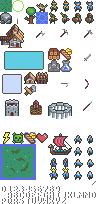
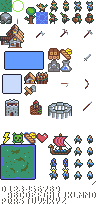
gfx

Changed region(s): [[0.0, 0.2353, 0.4688, 0.4706], [0.0, 0.7059, 0.375, 0.8824]]

diff --git a/src/js/main.js b/src/js/main.js
@@ -308,7 +308,9 @@ function loadMapData(callback) {
 				for (let x = 0; x < 36; x++) {
 					const index = 4 * (y * 36 + x);
 					let val = 0;
-					if (data[index] == 91 && data[index + 1] == 110 && data[index + 2] == 225) {
+					if (data[index + 3] == 0
+						|| (data[index] == 91 && data[index + 1] == 110 && data[index + 2] == 225)
+						|| (data[index] == 34 && data[index + 1] == 32 && data[index + 2] == 52)) {
 						val = 'w';
 					}
 					else if (data[index] == 75 && data[index + 1] == 105 && data[index + 2] == 47) {

diff --git a/src/js/MapManager.js b/src/js/MapManager.js
@@ -68,7 +68,7 @@ class MapManager {
 			new Unit_Worker(vec2(14, 12))
 		);
 
-		GLOBAL.boat = new EngineObject(vec2(33), vec2(2), tile(vec2(60, 120), 24));
+		GLOBAL.boat = new EngineObject(vec2(33), vec2(2), tile(vec2(48, 132), 24));
 
 		/*let enemy = new Unit_Enemy(vec2(16, 10), vec2(1), tile(6));
 		enemy.destination = GLOBAL.buildings[0].pos;
